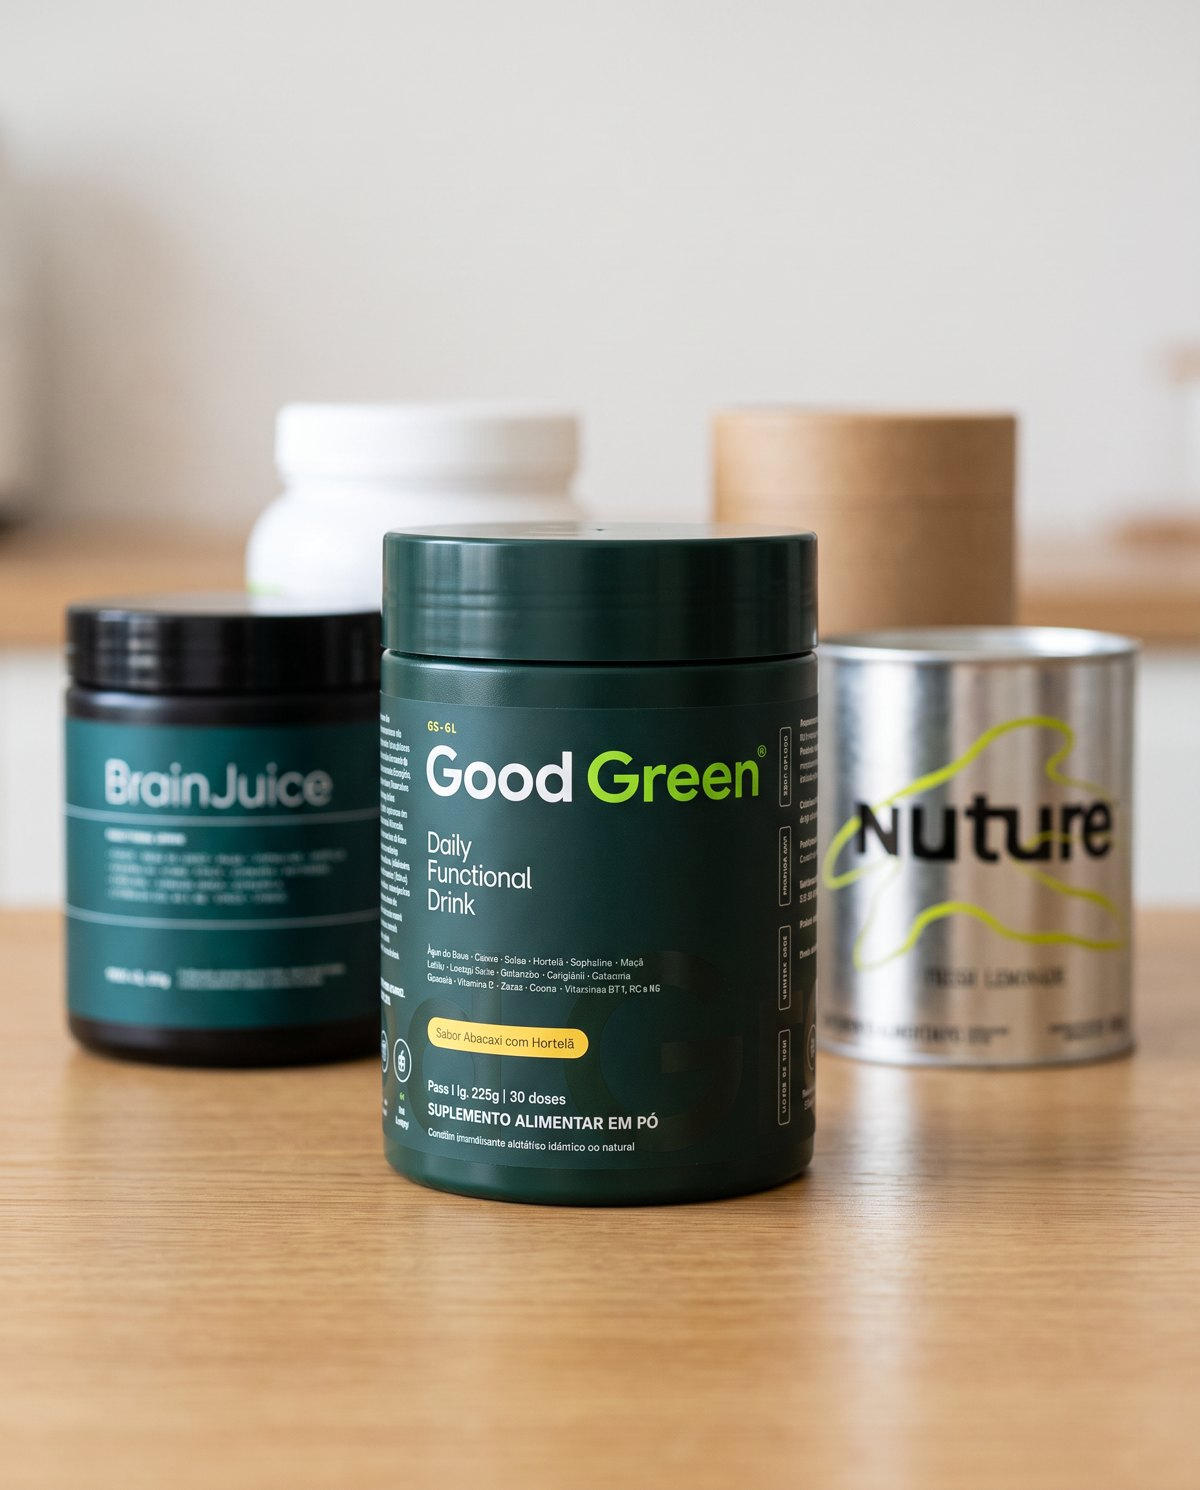
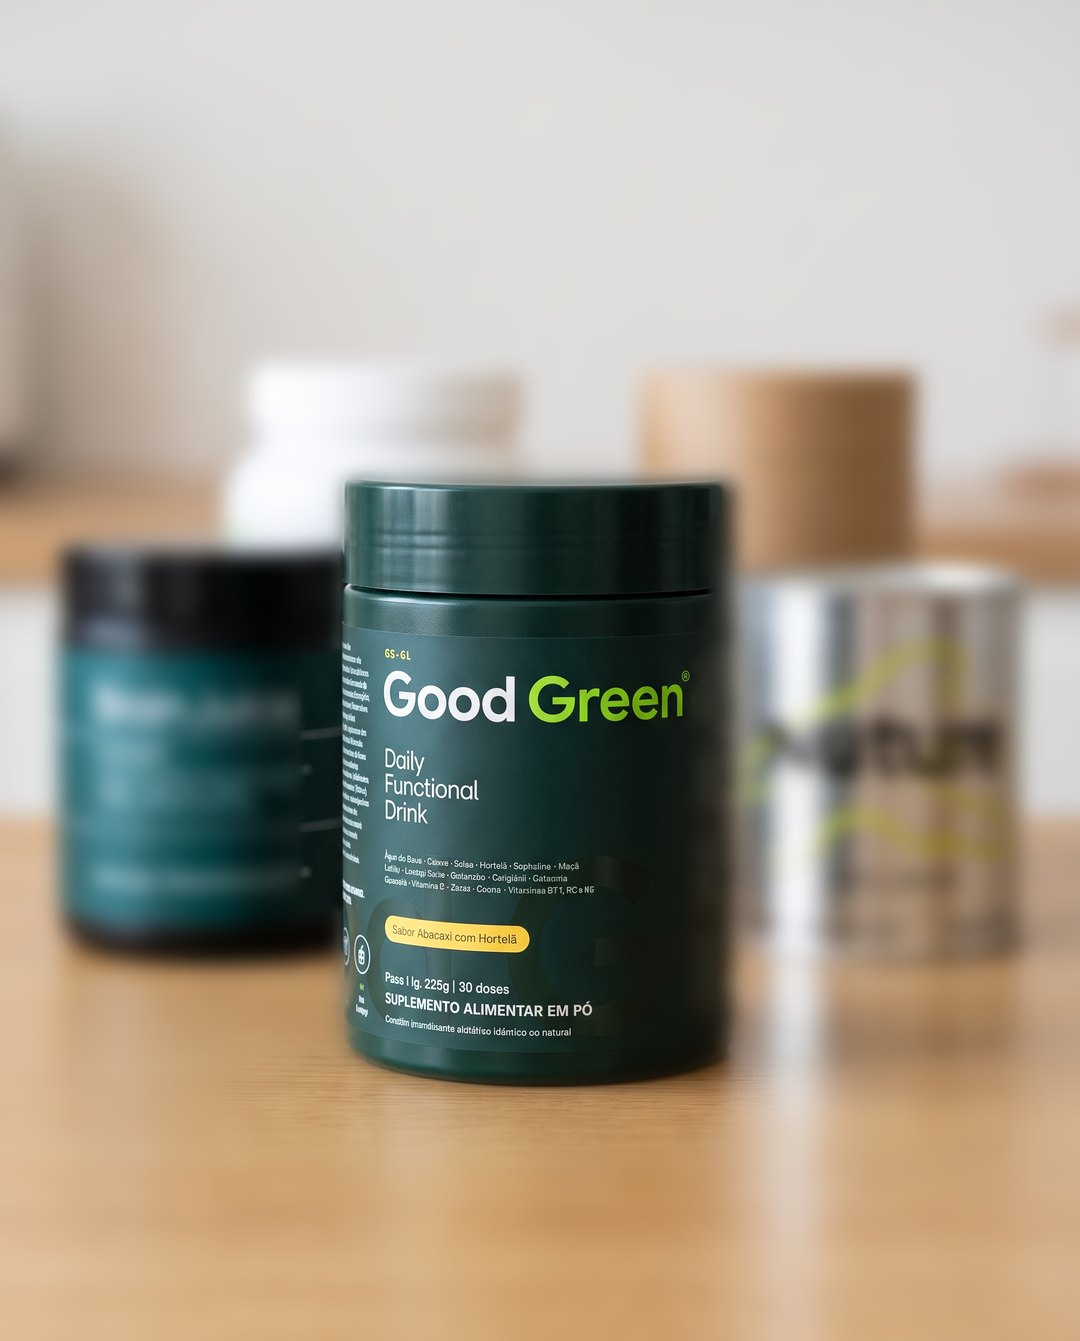
Quiz com ilustrações por problema e antes/depois; ranking com título analítico e bancada com o pote real nítido e concorrentes desfocados

diff --git a/quiz.html b/quiz.html
@@ -6,7 +6,7 @@
 <title>Good Green · Barriga estufada, intestino preso, cansaço? Responda e libere a garrafa de brinde</title>
 <meta name="description" content="Responda 4 perguntas sobre o que incomoda no seu dia e libere a garrafa de vidro de brinde no seu primeiro pedido de Good Green.">
 <link rel="stylesheet" href="assets/css/site.css?v=202610251200">
-<link rel="stylesheet" href="assets/css/lp.css?v=202610251200">
+<link rel="stylesheet" href="assets/css/lp.css?v=202610251500">
 </head>
 <body data-nav="claro" data-page="lp" data-lp="quiz">
 
@@ -21,12 +21,12 @@
       <span class="qz-recompensa">Complete o quiz e libere a garrafa de vidro de brinde</span>
       <h1>O que mais incomoda no seu dia?</h1>
       <p class="sub">Marque tudo o que acontece com você.</p>
-      <div class="qz-opcoes">
-        <button class="qz-opcao" type="button"><i></i>Barriga estufada depois das refeições</button>
-        <button class="qz-opcao" type="button"><i></i>Intestino preso, vou ao banheiro com dificuldade</button>
-        <button class="qz-opcao" type="button"><i></i>Peito e barriga inchados, a famosa tetinha</button>
-        <button class="qz-opcao" type="button"><i></i>Cansaço e sono depois do almoço</button>
-        <button class="qz-opcao" type="button"><i></i>Nada disso, quero só praticidade</button>
+      <div class="qz-opcoes qz-cards">
+        <button class="qz-opcao" type="button"><img src="assets/img/lp/qz-estufada.jpg" alt="" width="640" height="800"><i></i><span>Barriga estufada depois das refeições</span></button>
+        <button class="qz-opcao" type="button"><img src="assets/img/lp/qz-intestino.jpg" alt="" width="640" height="800"><i></i><span>Intestino preso, vou ao banheiro com dificuldade</span></button>
+        <button class="qz-opcao" type="button"><img src="assets/img/lp/qz-tetinha.jpg" alt="" width="640" height="800"><i></i><span>Peito e barriga inchados, a famosa tetinha</span></button>
+        <button class="qz-opcao" type="button"><img src="assets/img/lp/qz-cansaco.jpg" alt="" width="640" height="800"><i></i><span>Cansaço e sono depois do almoço</span></button>
+        <button class="qz-opcao" type="button"><img src="assets/img/lp/qz-verde.jpg" alt="" width="640" height="800"><i></i><span>Nada disso, quero só praticidade</span></button>
       </div>
       <div class="qz-pe"><span></span><button class="btn btn-escuro" data-prox disabled>Continuar</button></div>
       <p class="qz-privacidade">Perguntamos sobre a sua rotina para mostrar a informação certa sobre a Good Green. Nenhuma resposta é compartilhada com terceiros. Ao continuar, você concorda com a nossa política de privacidade.</p>
@@ -36,7 +36,7 @@
       <h2>Quase sempre, falta verde <mark>no prato.</mark></h2>
       <p class="sub">Couve, espirulina, fibras, vitaminas e minerais são o que menos entra na rotina de quem corre o dia inteiro. A Good Green junta tudo isso numa medida.</p>
       <div class="qz-educa">
-        <img src="assets/img/banner-pedra-folhas.jpg" alt="Pote Good Green e copo da bebida" loading="lazy">
+        <img src="assets/img/lp/qz-antes-depois.jpg" alt="Duas silhuetas: sem verdes na rotina e com Good Green" loading="lazy" width="1200" height="750"><div class="qz-legenda"><span>Sem verdes na rotina</span><span>Com Good Green</span></div>
         <ul>
           <li><span class="ok"><i data-ic="check"></i></span>Couve, espirulina, gengibre, cúrcuma e guaraná</li>
           <li><span class="ok"><i data-ic="check"></i></span>Fibras e ingredientes vegetais: maçã, água de coco, beterraba</li>

diff --git a/lp-ranking.html b/lp-ranking.html
@@ -3,20 +3,20 @@
 <head>
 <meta charset="utf-8">
 <meta name="viewport" content="width=device-width,initial-scale=1">
-<title>Os melhores greens em pó de 2026 · Ranking comparativo</title>
-<meta name="description" content="Comparamos 5 greens em pó vendidos no Brasil por ingredientes, vitaminas do rótulo, doses por pote, brinde e preço por dose. Veja o ranking atualizado.">
+<title>Qual é o melhor greens em pó do Brasil? Análise comparativa de 5 fórmulas · 2026</title>
+<meta name="description" content="Analisamos 5 greens em pó vendidos no Brasil pelos mesmos critérios: verdes de verdade por dose, vitaminas declaradas no rótulo, fibras, transparência e custo por porção. Veja o método e o resultado.">>
 <link rel="stylesheet" href="assets/css/site.css?v=202610251200">
 <link rel="stylesheet" href="assets/css/lp.css?v=202610251200">
 </head>
 <body data-nav="claro" data-page="lp" data-lp="ranking">
 
-<div class="lp-barra">Ranking independente da equipe Good Green · o nº 1 sai com garrafa de vidro de brinde <a href="#n1">Ver o nº 1 →</a></div>
+<div class="lp-barra">Análise comparativa de 5 greens em pó, rótulo por rótulo · critérios abertos <a href="#n1">Ver o resultado →</a></div>
 
 <section class="wrap">
   <div class="rk-topo">
-    <span class="lp-eyebrow">Ranking atualizado · os melhores greens em pó de 2026</span>
-    <h1 class="lp-h g2">Comparamos 5 greens em pó vendidos no Brasil. Só 1 juntava verdes de verdade, vitaminas do rótulo e garrafa de vidro de brinde.</h1>
-    <p class="atualizado">Última atualização: 25/10/2026</p>
+    <span class="lp-eyebrow">Análise comparativa · greens em pó vendidos no Brasil · 2026</span>
+    <h1 class="lp-h g2">Qual é o melhor greens em pó do Brasil? Analisamos 5 fórmulas pelos mesmos critérios: verdes de verdade, vitaminas declaradas, fibras e custo por dose.</h1>
+    <p class="atualizado">Método e critérios abaixo · última atualização: 25/10/2026</p>
   </div>
   <div class="rk-hero">
     <img class="horiz" src="assets/img/lp/ranking-bancada.jpg" alt="Bancada com seis potes de greens em pó: o Good Green nítido no centro e os concorrentes desfocados" fetchpriority="high">

diff --git a/assets/css/lp.css b/assets/css/lp.css
@@ -290,6 +290,14 @@ body[data-lp] .nav{justify-content:space-between}
 .qz-opcao.on{border-color:var(--petroleo);background:var(--verde-claro)}
 .qz-opcao i{width:18px;height:18px;border-radius:9px;border:1.5px solid var(--petroleo);flex:none;position:relative}
 .qz-opcao.on i::after{content:"";position:absolute;inset:3px;border-radius:50%;background:var(--petroleo)}
+.qz-cards{grid-template-columns:repeat(2,1fr);gap:12px}
+@media (min-width:600px){.qz-cards{grid-template-columns:repeat(3,1fr)}}
+.qz-cards .qz-opcao{position:relative;flex-direction:column;align-items:stretch;gap:0;padding:0;border-radius:18px;overflow:hidden}
+.qz-cards .qz-opcao img{display:block;width:100%;aspect-ratio:1/1;object-fit:cover;object-position:center 30%;background:var(--osso)}
+.qz-cards .qz-opcao span{display:block;padding:12px 14px 14px;font-size:15px;line-height:1.3}
+.qz-cards .qz-opcao i{position:absolute;top:12px;left:12px;background:#fff}
+.qz-cards .qz-opcao.on img{background:var(--verde-claro)}
+.qz-legenda{display:flex;justify-content:space-around;margin:-10px 0 22px;font-family:var(--mono);font-size:11px;letter-spacing:.1em;text-transform:uppercase;color:var(--mut)}
 .qz-educa{background:#fff;border-radius:var(--r-md);padding:28px;margin-top:8px}
 .qz-educa img{width:100%;aspect-ratio:16/10;object-fit:cover;border-radius:14px;margin-bottom:22px}
 .qz-educa ul{list-style:none;display:grid;gap:12px;font-size:16px}
